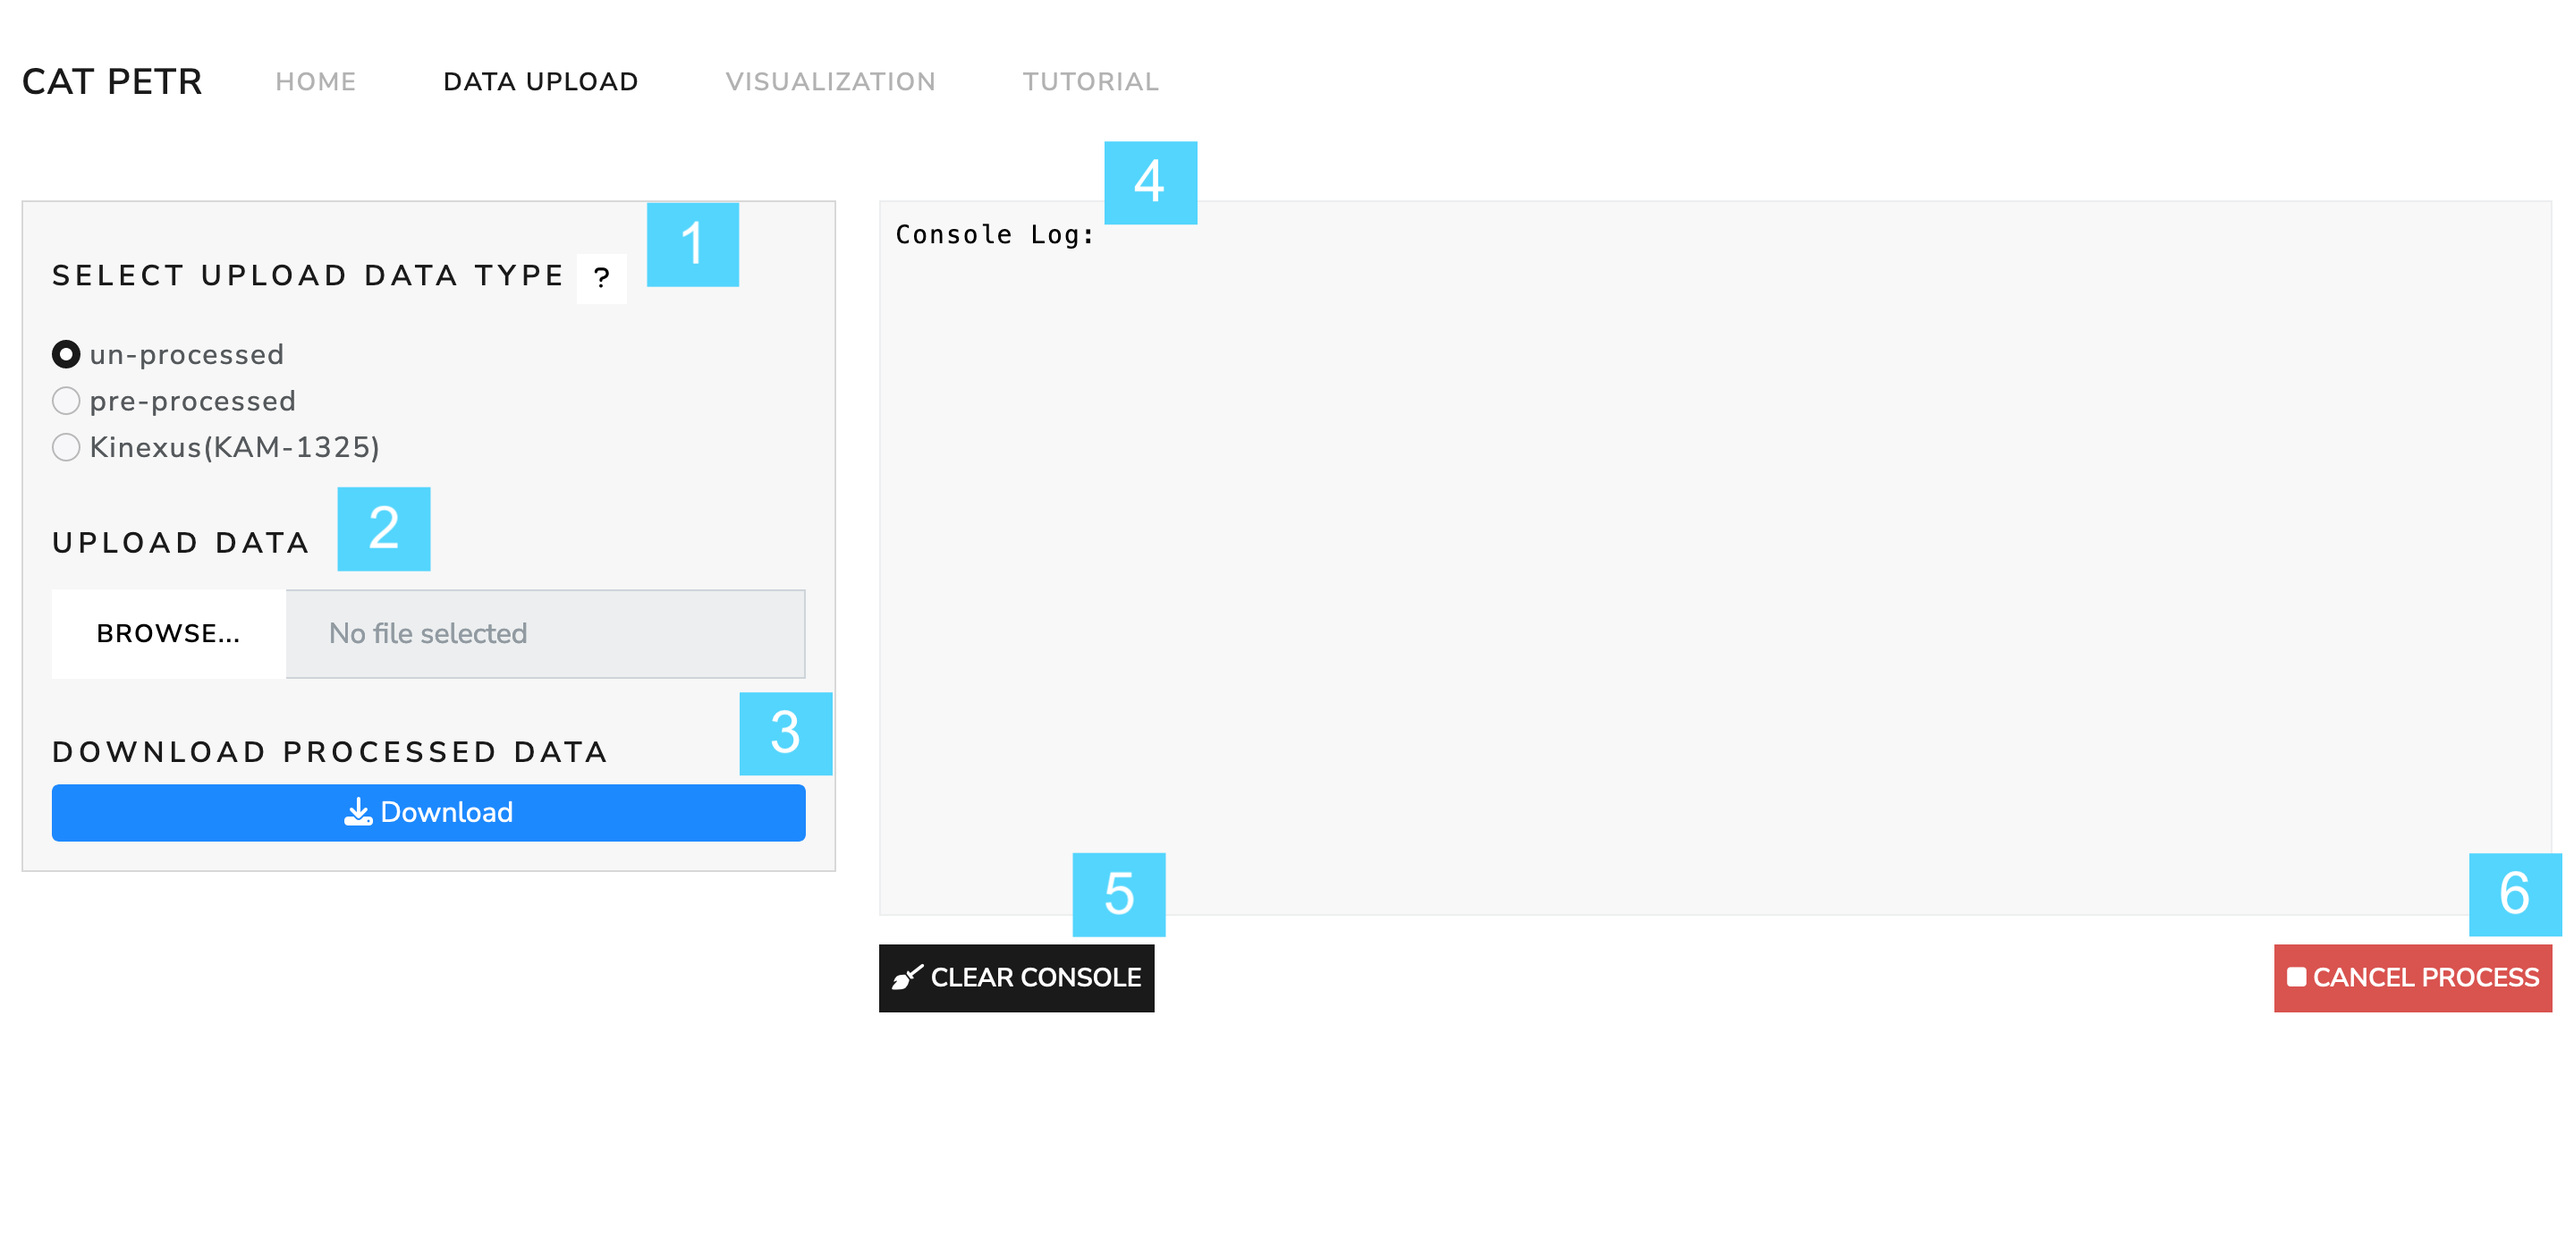
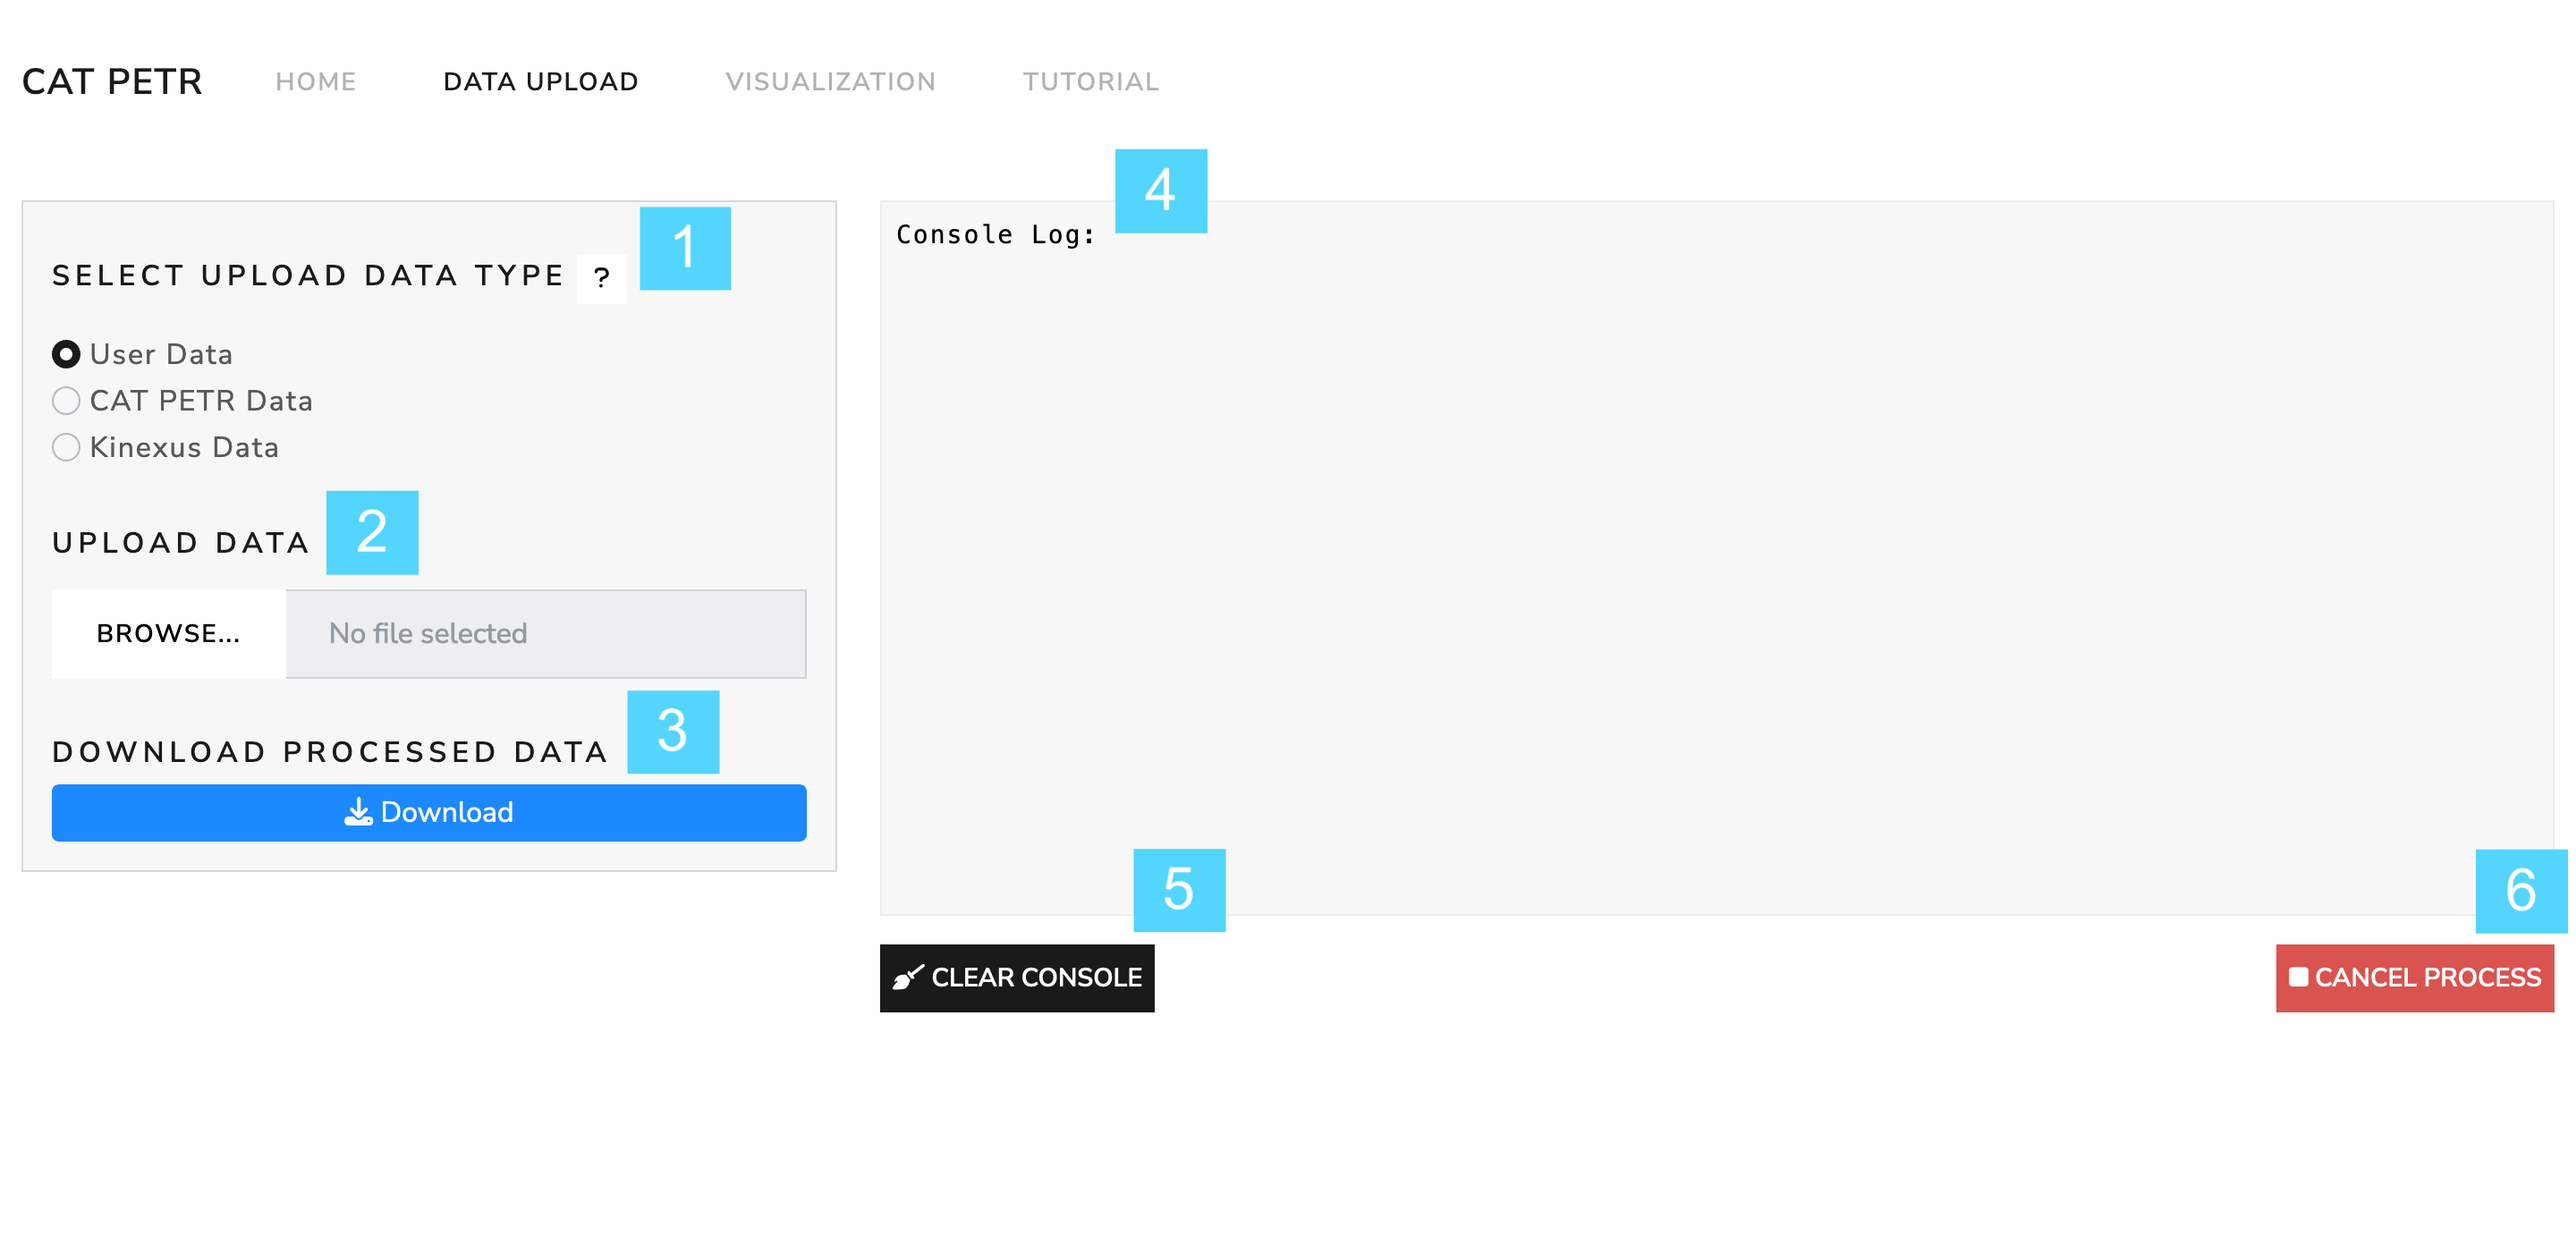
adjusted tutorial

diff --git a/README.md b/README.md
@@ -8,17 +8,17 @@ CAT PETR has been developed in R 4.2.1 and Shiny 1.7.2 and uses a wide variety o
 
 # Tutorial
 
-This is a simple tutorial that covers the data upload and visualization sections of CAT PETR when working with un-processed protein phosphorylation data. The example data used is antibody microarray data collected from biopsied pancreatic cells from patients who underwent 5 different drug treatments: No treatment (C), treatment with B-IT (T_BIT), treatment with Sivelestat (T_SIV), treatment with Tebipenum (T_TEB), and treatment with Telaprevir (T_TEL).
+This is a simple tutorial that covers the data upload and visualization sections of CAT PETR when working with protein phosphorylation data. The example data used is antibody microarray data collected from biopsied pancreatic cells from patients who underwent 5 different drug treatments: No treatment (C), treatment with B-IT (T_BIT), treatment with Sivelestat (T_SIV), treatment with Tebipenum (T_TEB), and treatment with Telaprevir (T_TEL).
 
 ## Data Upload Tab
 
-1.  The example data for this tutorial can be found on the CAT PETR OSF page <https://osf.io/qmd8e/>. Please save the data from the un_processed folder onto your computer in its own folder.
+1.  The example data for this tutorial can be found on the CAT PETR OSF page <https://osf.io/qmd8e/>. Please save the data from the example user data folder onto your computer in its own folder.
 
 2.  Go to the 'Data Upload' tab. The appearance of this tab is shown below.
 
-    ![](www/download_plain.png)(1) Selection boxes specifying if uploading un-processed data, pre-processed data, or the raw data files from a Kinexus KAM-1325 microarray. Question mark brings up example input formats. (2) Data upload section. (3) Button which downloads processed data as a .zip file. (4) Console log which displays the analysis progress along with warnings, errors, and messages. (5) Button which clears the console log. (6) Button which cancels any active analysis processes.
+    ![](www/download_plain.png)(1) Selection boxes specifying if uploading un-analyzed user data, pre-analyzed CAT PETR data, or the raw data files from a Kinexus KAM-1325 microarray. Question mark brings up example input formats. (2) Data upload section. (3) Button which downloads analyzed data as a .zip file. (4) Console log which displays the analysis progress along with warnings, errors, and messages. (5) Button which clears the console log. (6) Button which cancels any active analysis processes.
 
-3.  Choose the 'un-processed' option for the data upload type. Then, click on the browse button and navigate to wherever you have saved the un-processed data. Note that each data file will represent a single sample/treatment group. Use the shift key to select all of the csv files and upload.
+3.  Choose the 'User Data' option for the data upload type. Then, click on the browse button and navigate to wherever you have saved the example data. Note that each data file will represent a single sample/treatment group. Use the shift key to select all of the csv files and upload.
 
 4.  You will notice that three additional input options appear.
 
@@ -32,7 +32,7 @@ This is a simple tutorial that covers the data upload and visualization sections
 
     ![](www/bucket_list.png)
 
-    Once the controls and treatments are selected, the user must choose the style of data normalization they wish to use (if any) and choose which type of t-test to perform. The t-test options include a traditional two-sample t-test and an adjusted Cyber-T t-test. For more information on Cyber-T, please see the [Cyber-T Reference](https://pubmed.ncbi.nlm.nih.gov/22600740/).
+    Once the controls and treatments are selected, the user must the choose normalization and t-test methods for the differential analysis. The normalization techniques offered include Log Transformation and VSN. Please select VSN and Cyber-T and then hit the 'run pairwise comparisons' button. The comparison should be completed in under 30 seconds. Once completed, we can move on to the next section of the tutorial. For more information on VSN and Cyber-T, please see the [VSN Reference](https://academic.oup.com/bioinformatics/article/19/8/966/235230?login=true) and the [Cyber-T](https://pubmed.ncbi.nlm.nih.gov/22600740/) Reference respectively.
 
 6.  Please select the Cyber-T t-test and then hit the 'run pairwise comparisons' button. The comparison should be completed in under 30 seconds. Once completed, we can move on to the next section of the tutorial.
 
@@ -64,7 +64,7 @@ The visualization tab contains three sub-tabs: the Volcano Plot tab, the Scatter
 
     1.  Begin typing the protein name 'PKCg T655 PK083' into the search bar and then select it from the resulting drop down menu. Note that the protein becomes labelled in green on the plot. Select 'PKCg T655 PK083' on the search bar by clicking on it and then remove it using the delete key.
     2.  Click on any random point on the graph to add it to the search bar and generate a label. Then click on the point again to remove it.
-    3.  Click the 'add top entries to search bar' button. Note that the color of the labels have all switched to the color we specified in step 9.
+    3.  Click the 'add labelled entries to search bar' button. Note that the color of the labels have all switched to the color we specified in step 9.
 
 11. Switch to the 'C_vs_T\_SIV' plot using the slider directly underneath the plot.
 
@@ -88,7 +88,7 @@ The major difference of the Scatter plot section is that in order to view the sc
 
 16. Hit the deselect all button below the gene/protein searchbar in order to clear it.
 
-17. Click the 'add top entries to search bar' button.
+17. Click the 'add labelled entries to search bar' button.
 
 ### Heat map
 
